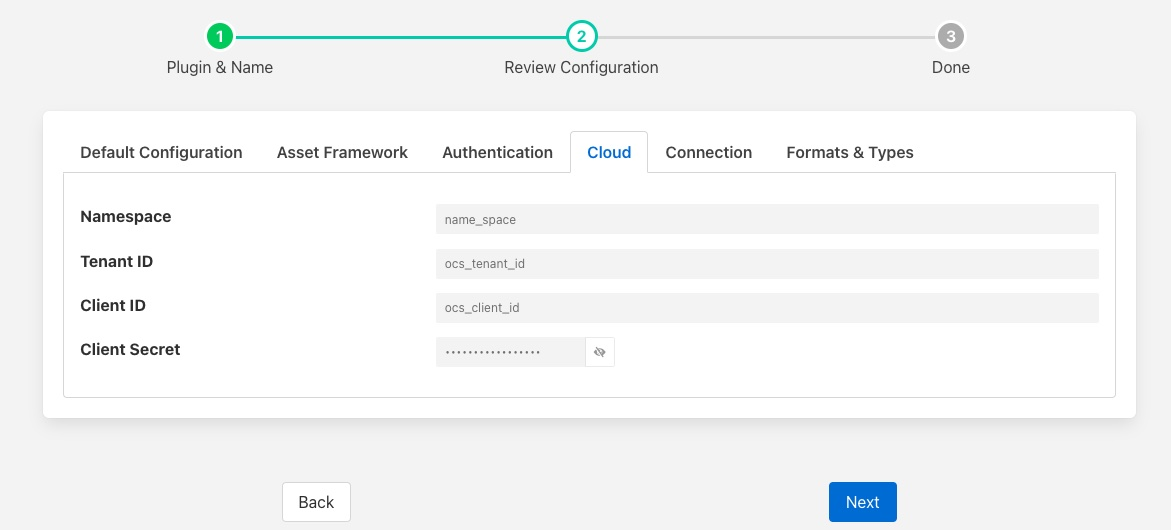
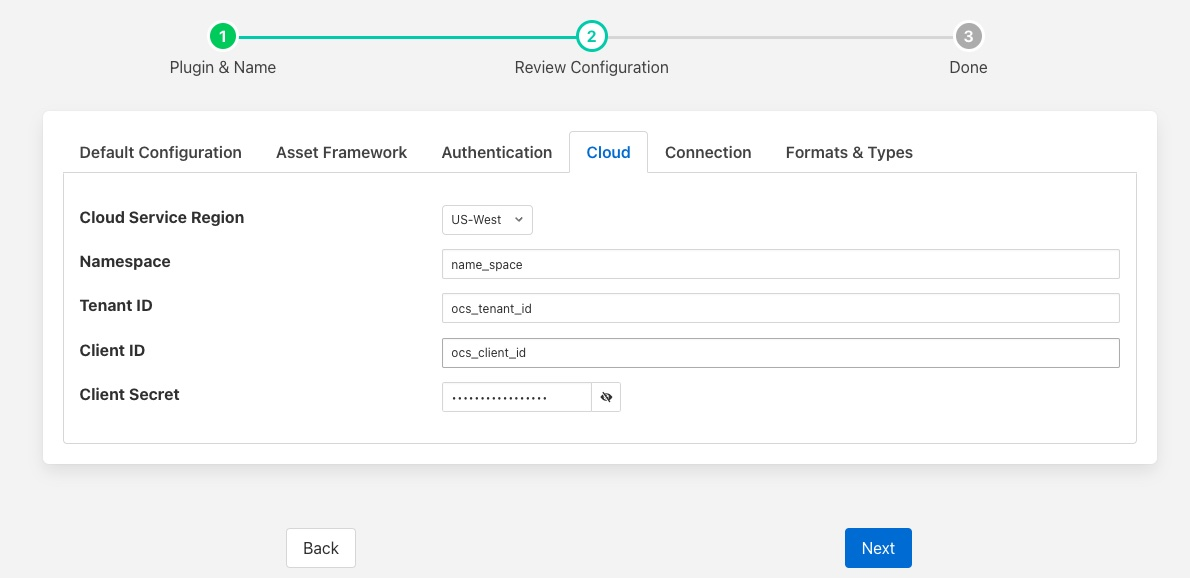
Add missing blank line and statement about auto detect pre 1.2 endpoints

diff --git a/docs/OMF.rst b/docs/OMF.rst
@@ -13,6 +13,8 @@
 .. |OMF_Connection| image:: images/OMF_Connection.jpg
 .. |OMF_Default| image:: images/OMF_Default.jpg
 .. |OMF_Format| image:: images/OMF_Format.jpg
+.. |OMF_Endpoints| image:: images/OMF_Endpoints.jpg
+.. |ADH_Regions| image:: images/ADH_Regions.jpg
 
 .. Links
 .. |OMFHint filter plugin| raw:: html
@@ -116,6 +118,10 @@ The *Default Configuration* tab contains the most commonly modified items
 
   - **Endpoint**: The type of OMF end point we are connecting with. The options available are
 
+    +-----------------+
+    | |OMF_Endpoints| | 
+    +-----------------+
+
     - *PI Web API* - A connection to a PI Server that supports the OMF option of the PI Web API. This is the preferred mechanism for sending data to a PI Server.
 
     - *AVEVA Data Hub* - The AVEVA cloud service.
@@ -145,6 +151,8 @@ The *Default Configuration* tab contains the most commonly modified items
 
 Asset Framework
 ~~~~~~~~~~~~~~~
+
+The OMF plugins has the ability to interact with the PI Asset Framework and put data into the desired locations within the asset framework. It allows a default location to be specified and also a set of rules to be defined that will override that default location.
 
 +----------+
 | |OMF_AF| |
@@ -193,6 +201,10 @@ The *Cloud* tab contains configuration items that are required if the chosen OMF
 
   - **Cloud Service Region**: - The region in which your AVEVA Data Hub or OSISoft Cloud Services service is located.
 
+    +---------------+
+    | |ADH_Regions| |
+    +---------------+
+
   - **Namespace**: Your namespace within the AVEVA Data Hub or OSISoft Cloud Service.
 
   - **Tenant ID**: Your AVEVA Data Hub or OSISoft Cloud Services Tenant ID for your account.
@@ -203,6 +215,8 @@ The *Cloud* tab contains configuration items that are required if the chosen OMF
 
 Connection
 ~~~~~~~~~~
+
+The *Connection* tab allows a set of tuning parameters to be set for the connection from the OMF plugin to the OMF End point.
 
 +------------------+
 | |OMF_Connection| |
@@ -220,6 +234,8 @@ Connection
 Formats & Types
 ~~~~~~~~~~~~~~~
 
+The *Formats & Types* tab provides a means to specify the detail types that will be used and the way complex assets are mapped to OMF types to also be configured.
+
 +--------------+
 | |OMF_Format| |
 +--------------+
@@ -228,7 +244,8 @@ Formats & Types
 
    - **Number Format**: Used to match Fledge data types to the data type configured in PI. The default is float64 but may be set to any OMF datatype that supports floating point values.
 
-   - **Complex Types**: Versions of the OMF plugin prior to 2.1 support complex types in which each asset would have a corresponding OMF type created for it. With the introduction of OMF Version 1.2 support in version 2.1.0 of the plugin support has been added for linked types. These are more versatile and allow for asset structures to change dynamically. The linked types are now the default, however setting this option can force the older complex types to be used.  See :ref:`Linked_Types`.
+   - **Complex Types**: Versions of the OMF plugin prior to 2.1 support complex types in which each asset would have a corresponding OMF type created for it. With the introduction of OMF Version 1.2 support in version 2.1.0 of the plugin support has been added for linked types. These are more versatile and allow for asset structures to change dynamically. The linked types are now the default, however setting this option can force the older complex types to be used.  See :ref:`Linked_Types`. Versions of the PI Server from 2020 or before will always use the complex types. The plugin will normally automatically detect this, however if the detection does not correctly enforce this setting then this opion should be enabled by the user.
+
 .. _Naming_Scheme:
 
 Naming Scheme
